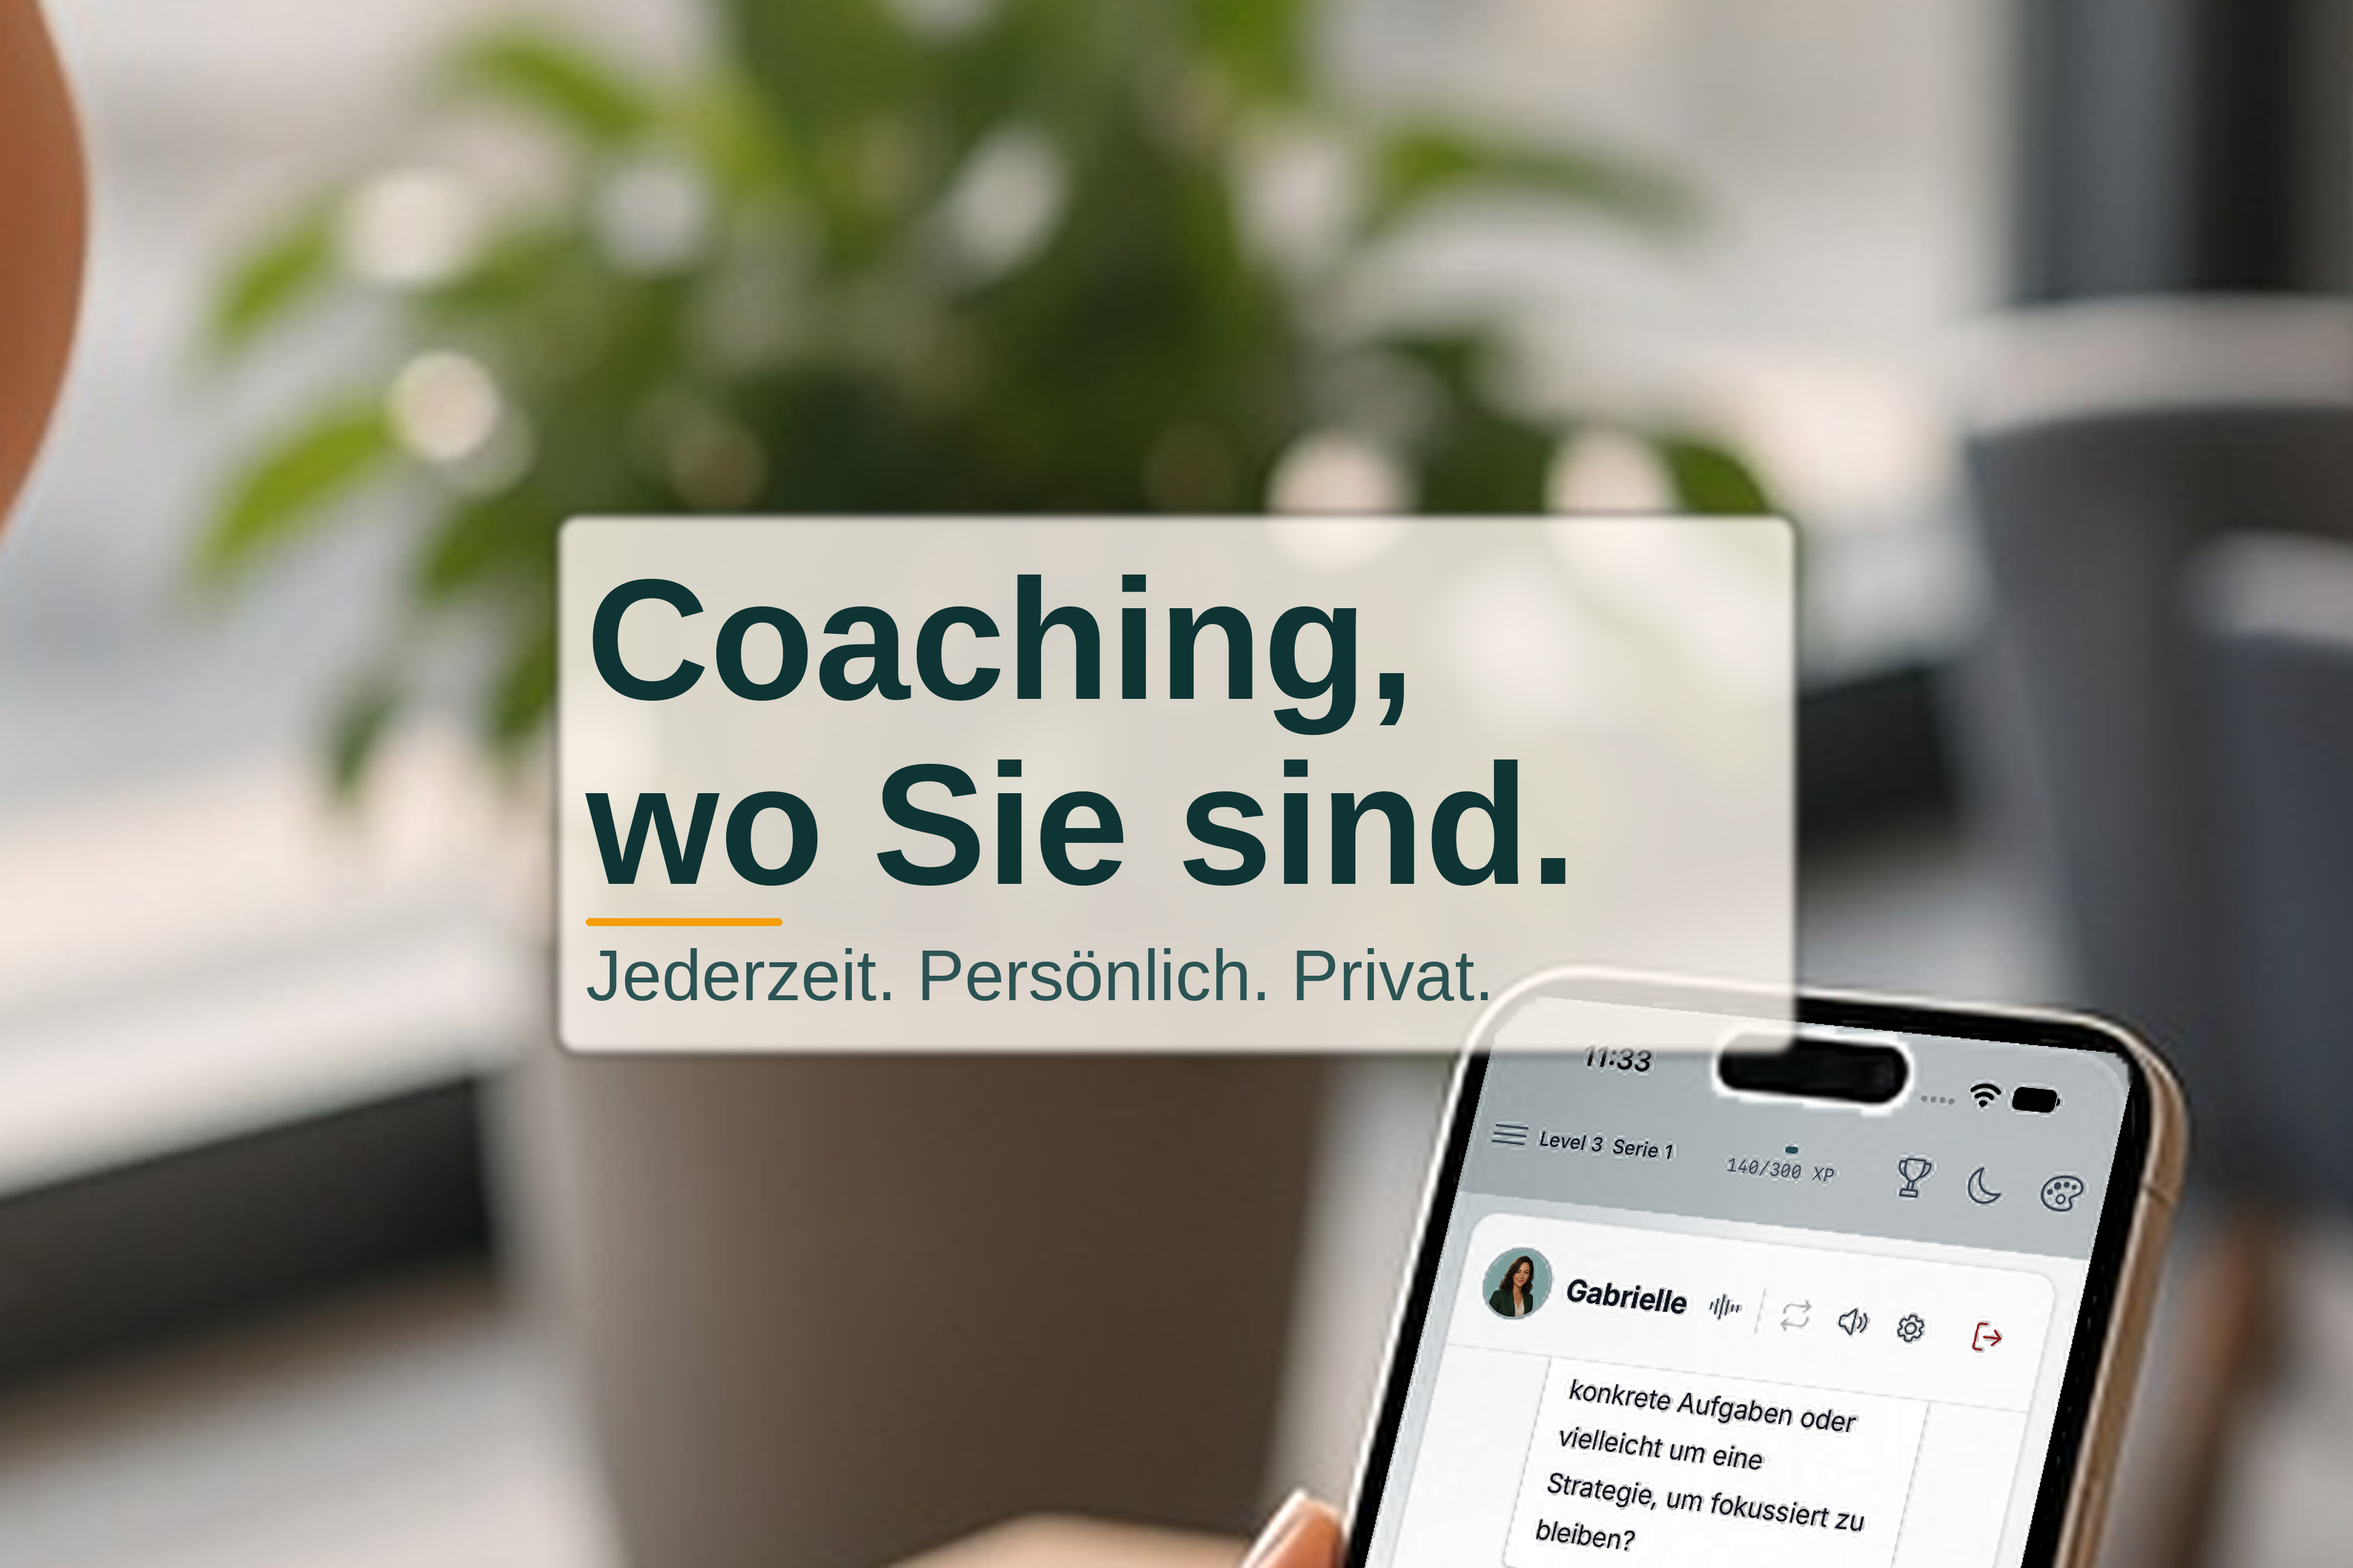
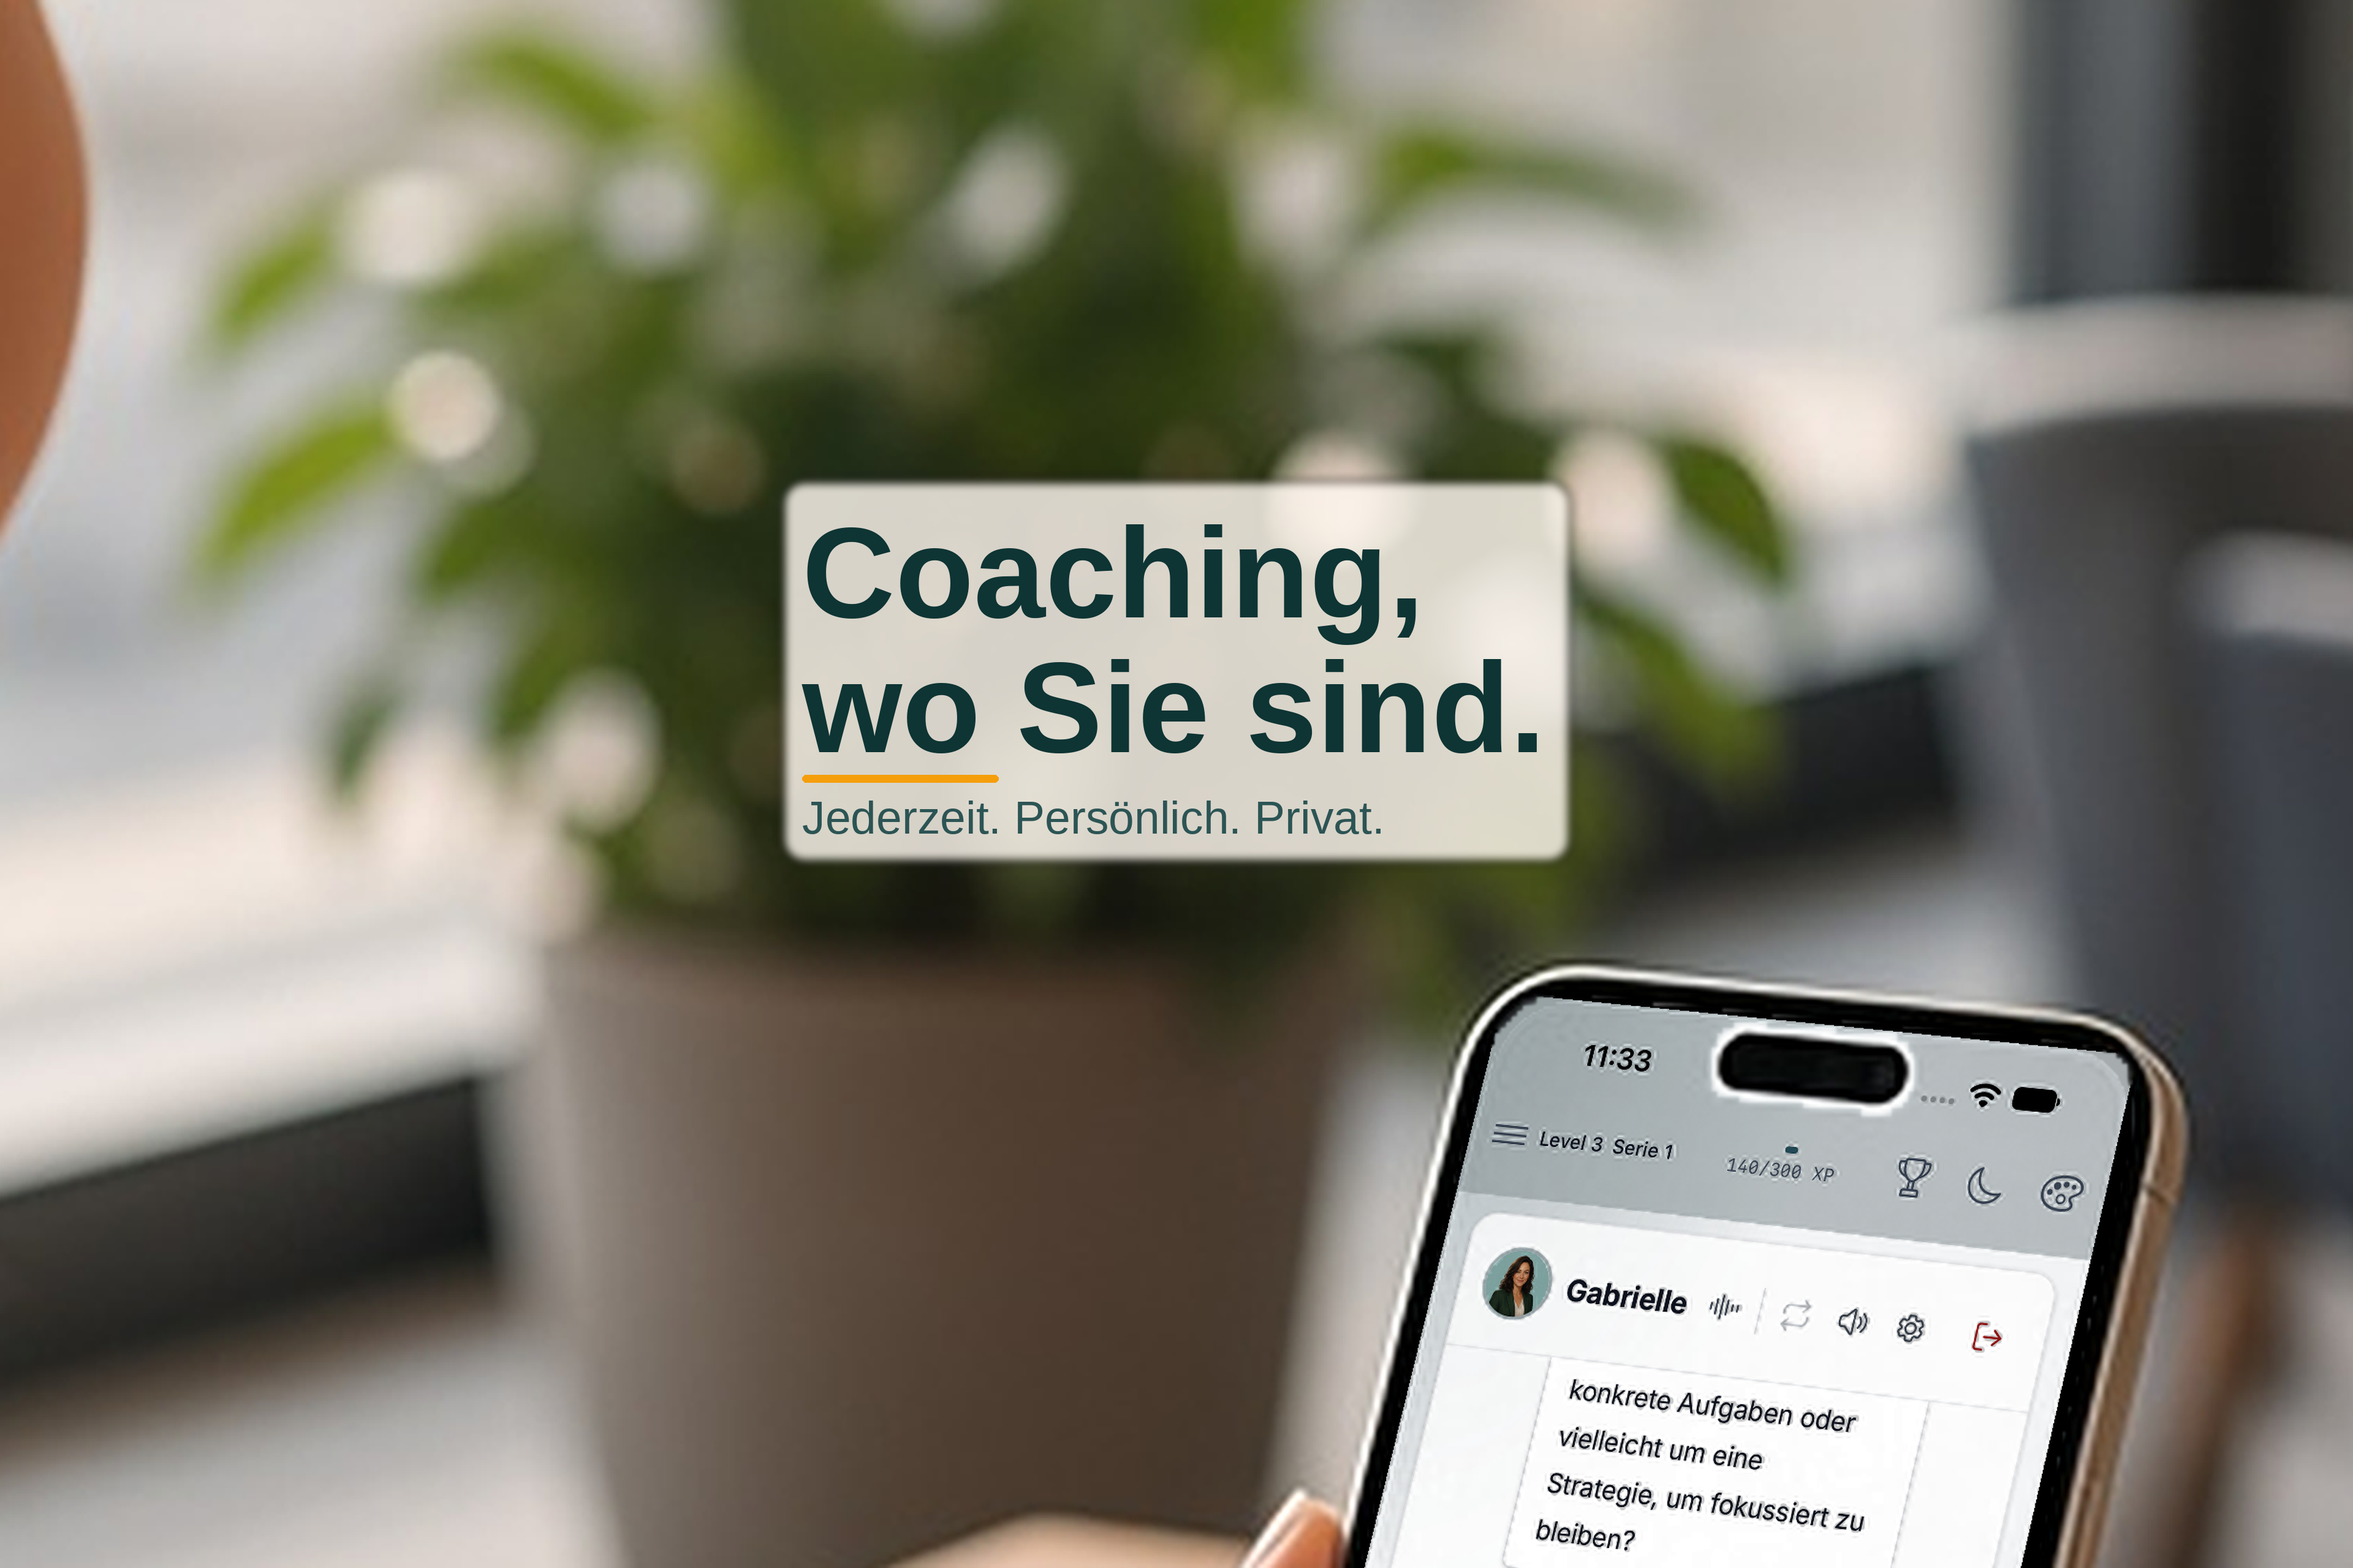
fix(asc): keep search subtitle inside the iPhone strip

Changed region(s): [[0.2188, 0.2812, 0.7812, 0.6875]]

diff --git a/scripts/compose-asc-product-page-header.py b/scripts/compose-asc-product-page-header.py
@@ -200,36 +200,46 @@ def scene(locale: str) -> Image.Image:
     return rescreen(canvas, locale).convert("RGBA")
 
 
-def paint_card(canvas: Image.Image, bounds: tuple[int, int, int, int], locale: str) -> Image.Image:
+def paint_card(
+    canvas: Image.Image,
+    bounds: tuple[int, int, int, int],
+    locale: str,
+    *,
+    max_title: int = 360,
+    sub_ratio: float = 0.42,
+    pad: int = 48,
+    anchor: str = "center",
+) -> Image.Image:
     """Draw the headline card so the whole rounded box stays inside `bounds`."""
     meta = COPY[locale]
     x0, y0, x1, y1 = bounds
-    pad = 48
     inner_w = max(80, (x1 - x0) - pad * 2)
     inner_h = max(80, (y1 - y0) - pad * 2)
     lines = [ln.strip() for ln in meta["headline"].split("\n") if ln.strip()]
     longest = max(lines, key=len)
     title_font = body_font = None
     title_h = body_h = 0
-    for size in range(360, 48, -2):
+    for size in range(max_title, 48, -2):
         title_font = load_font(TITLE_FONT, size)
-        body_font = load_font(BODY_FONT, max(40, int(size * 0.42)))
+        body_font = load_font(BODY_FONT, max(32, int(size * sub_ratio)))
         if _text_width(longest, title_font) > inner_w:
             continue
         if _text_width(meta["sub"], body_font) > inner_w:
             continue
-        title_h = int(size * 1.08)
-        body_h = int(body_font.size * 1.25)
-        block_h = title_h * len(lines) + 36 + body_h
+        title_h = int(size * 1.05)
+        body_h = int(body_font.size * 1.2)
+        block_h = title_h * len(lines) + 28 + body_h
         if block_h <= inner_h:
             break
     assert title_font and body_font
-    block_h = title_h * len(lines) + 36 + body_h
-    box_w = inner_w + pad * 2
+    block_h = title_h * len(lines) + 28 + body_h
+    box_w = min(inner_w, int(_text_width(longest, title_font)) + 8) + pad * 2
     box_h = block_h + pad * 2
-    # Center the card in the safe area so nothing clips.
     left = x0 + ((x1 - x0) - box_w) // 2
-    top = y0 + ((y1 - y0) - box_h) // 2
+    if anchor == "top":
+        top = y0 + 8
+    else:
+        top = y0 + ((y1 - y0) - box_h) // 2
     box = (left, top, left + box_w, top + box_h)
 
     scrim = Image.new("RGBA", canvas.size, (0, 0, 0, 0))

diff --git a/scripts/compose-asc-universal-asset.py b/scripts/compose-asc-universal-asset.py
@@ -61,11 +61,16 @@ def place(locale: str, guides: bool) -> Image.Image:
     hdr = _header()
     canvas = cover(hdr.scene(locale).convert("RGB"), W, H).convert("RGBA")
     sx, sy, sw, sh = SAFE
-    margin = 72
+    # iPhone search shows a shorter strip than the template box. Keep the
+    # card in the upper part so the subtitle is not cut off.
     canvas = hdr.paint_card(
         canvas,
-        (sx + margin, sy + margin, sx + sw - margin, sy + sh - margin),
+        (sx + 80, sy + 12, sx + sw - 80, sy + int(sh * 0.72)),
         locale,
+        max_title=210,
+        sub_ratio=0.36,
+        pad=32,
+        anchor="top",
     )
     if guides:
         ImageDraw.Draw(canvas).rectangle(
